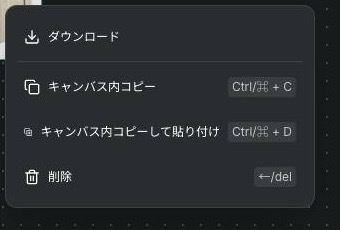
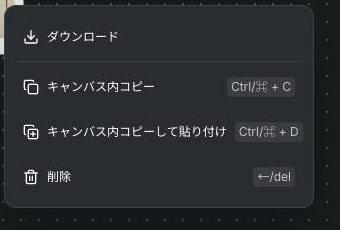
記録: #314 の後の一覧の証拠に差し替える

diff --git a/docs/parity/full-flow-2026-11-11.md b/docs/parity/full-flow-2026-11-11.md
@@ -826,7 +826,7 @@ Heavy の直し:
 - #307 画像: 自由な画像を右クリック → キャンバス内コピーして貼り付けで、写す元の右に複製（ed790ee0）。Delete で消し、読み込み直すと objects から外れた（revision 14）
 - 注意: 道具の「同じ住所へ移る」は同じタブでは読み込み直さない（頁の識別番号が同じ）。読み込み直しは `tabs.reload` で確かめた
 - #309: 部分編集に参考画像・保存・ライブラリ（10th-studio-rest-partial-edit.jpg）、ライブラリの窓（10th-studio-rest-prompt-library.jpg）、素材を選択（10th-studio-rest-reference-picker.jpg）、参考画像の小さな絵（10th-studio-rest-reference-chosen.jpg）、保存で「プロンプトを追加」が内容入りで開く（10th-studio-rest-prompt-save.jpg）。参考画像（ベスト）つきで「ブラウスを参考画像のベストと同じ素材と色にしてください」を流すと、子の文書に material-reference と結果が入り、ブラウスがキルトの素材と色になった（10th-studio-rest-partial-result.jpg、ポイント 29,854 → 29,853）。AI拡張は 1x・元の比率で生成が押せる色、四隅と各辺につまみ（10th-studio-rest-expand-handles.jpg）。クリッピングのパスツールの帯は本家と同じ並び（10th-studio-rest-path-curve.jpg）
-- #312・#314: 一覧の前 10th-studio-rest-menu-before.jpg、本家 10th-studio-rest-menu-light.jpg、後 10th-studio-rest-menu-after.jpg。複製（1e7be3ea）のあと取り消しが押せ、押すと `studioHidden` に入り、読み込み直すと objects から外れた（revision 18）
+- #312・#314: 一覧の前 10th-studio-rest-menu-before.jpg、本家 10th-studio-rest-menu-light.jpg、後（#314 の後、印も16pxのまま） 10th-studio-rest-menu-after.jpg。複製（1e7be3ea）のあと取り消しが押せ、押すと `studioHidden` に入り、読み込み直すと objects から外れた（revision 18）
 - #313: 本番の画像検索でジーンズの写真を選ぶと、ベルト・サンダル・編み革のバッグ・イヤリング・腕輪の12枚で、クレーターや絵画は出なかった（10th-studio-rest-search-after.jpg）
 - 本家の画像修復・背景削除・高画質化（2K）を流した: どれもポイントは 361,533 のまま（0ポイント）。画像修復は窓なしですぐ走り、右に待ちの枠が出る（Heavy と同じ流れ）。背景削除はすぐ、2K は約70秒の作業として走った（10th-studio-rest-light-edit-results.jpg）。本家の高画質化の選びは 2K・4K で、Heavy も同じ
 - Heavy は背景削除（ブラウザの中の isnet）と高画質化（ブラウザの中の Real-ESRGAN、#304）が0ポイントで本家と同じ。画像修復は Heavy では 4K の生成の道を通るので1回の生成として数える（本家は0）。数え方は `cloudflare/heavy-api/src/image-ai.ts` 側で、この会話では触らない約束のファイルなので変えていない
